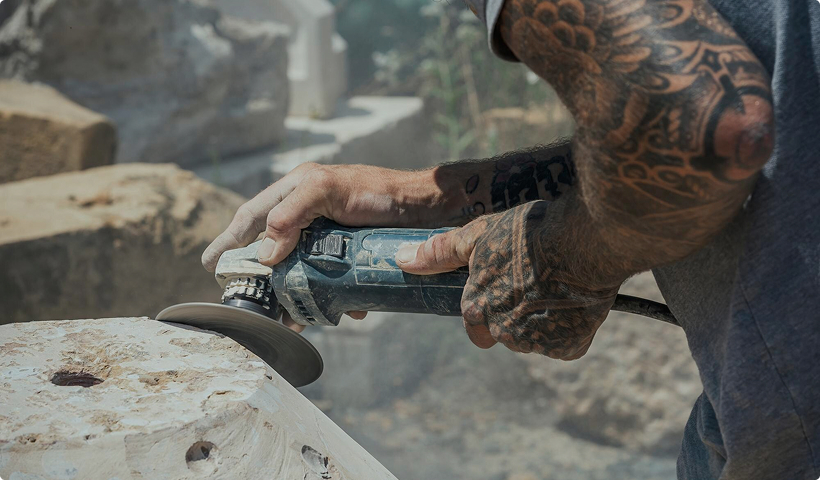
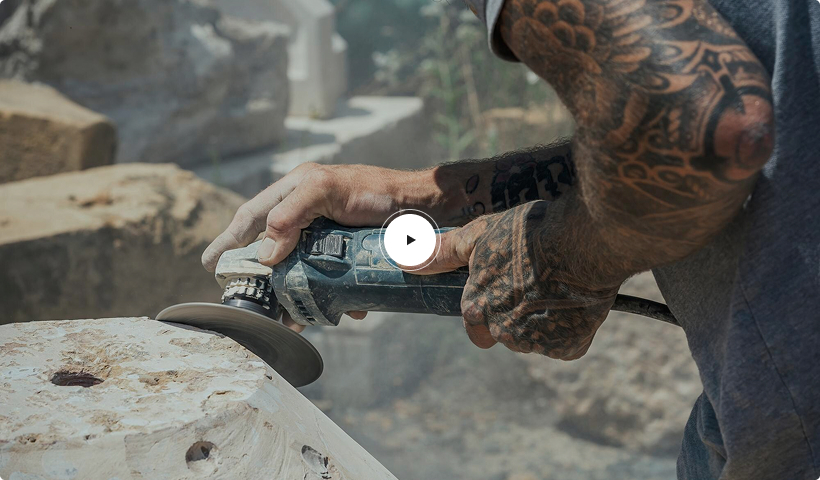
000

Changed region(s): [[0.4573, 0.4375, 0.5488, 0.5625]]

diff --git a/web/css/main.css b/web/css/main.css
@@ -2506,6 +2506,19 @@ nav li:hover > .submenu {
 	-ms-overflow-style: none;
 }
 
+.types__tabs .types-btns::-webkit-scrollbar {
+	width: 4px;
+	height: 6px;
+	border-radius: 7px;
+	background-color: #fafafa;
+}
+
+.types__tabs .types-btns::-webkit-scrollbar-thumb {
+	cursor: pointer;
+	border-radius: 7px;
+	background: #d7d7d9;
+}
+
 .types__tabs .types-btns .tabs__btn {
 	display: flex;
 	margin-right: 60px;
@@ -2515,6 +2528,10 @@ nav li:hover > .submenu {
 	opacity: 1;
 	scroll-snap-align: center;
 	align-items: center;
+}
+
+.types__tabs .types-btns .tabs__btn:last-child {
+	margin-right: 50px;
 }
 
 .types__tabs .types-btns .tabs__btn .preview {
@@ -3555,6 +3572,38 @@ nav li:hover > .submenu {
 	border-color: #fff;
 }
 
+.hero_image {
+	overflow: hidden;
+	width: 100%;
+	height: 400px;
+	pointer-events: none;
+}
+
+.hero_image video {
+	position: relative;
+	z-index: -1;
+	width: 100%;
+	height: 100%;
+	pointer-events: none;
+	-o-object-fit: cover;
+	object-fit: cover;
+}
+
+.hero_image video::-webkit-media-controls {
+	display: none !important;
+}
+
+.hero_image video:before {
+	top: 0;
+	left: 0;
+	display: block;
+	width: 100%;
+	height: 100%;
+	content: '';
+	pointer-events: none;
+	background-color: transparent;
+}
+
 .page-service .hero {
 	position: relative;
 }
@@ -3580,21 +3629,6 @@ nav li:hover > .submenu {
 
 .hero_simple .hero__inner {
 	padding-bottom: 90px;
-}
-
-.hero_image {
-	overflow: hidden;
-	width: 100%;
-	height: 400px;
-	pointer-events: none;
-}
-
-.hero_image video {
-	width: 100%;
-	height: 100%;
-	pointer-events: none;
-	-o-object-fit: cover;
-	object-fit: cover;
 }
 
 .page__item_top h1 {

diff --git a/src/sass/blocks/_tabs.scss b/src/sass/blocks/_tabs.scss
@@ -99,18 +99,17 @@
     justify-content: flex-start;
     padding: 16px 20px !important;
     scroll-snap-type: x mandatory;
-    //&::-webkit-scrollbar { display: none; }
-    //&::-webkit-scrollbar {
-    //  width: 4px;
-    //  height: 6px;
-    //  background-color: #fafafa;
-    //  border-radius: 7px;
-    //}
-    //&::-webkit-scrollbar-thumb {
-    //  background: $color-blue;
-    //  border-radius: 7px;
-    //  cursor: pointer;
-    //}
+    &::-webkit-scrollbar {
+      width: 4px;
+      height: 6px;
+      background-color: #fafafa;
+      border-radius: 7px;
+    }
+    &::-webkit-scrollbar-thumb {
+      background: $color-gray-20;
+      border-radius: 7px;
+      cursor: pointer;
+    }
     -ms-overflow-style: none;
     overflow: -moz-scrollbars-none;
     overflow-x: auto;
@@ -124,6 +123,9 @@
       padding-bottom: 0;
       white-space: nowrap;
       opacity: 1;
+      &:last-child {
+        margin-right: 50px;
+      }
       .preview {
         margin-right: 12px;
         width: 40px;

diff --git a/src/sass/blocks/_hero.scss b/src/sass/blocks/_hero.scss
@@ -30,6 +30,32 @@
   }
 }
 
+.hero_image {
+  width: 100%;
+  height: 400px;
+  overflow: hidden;
+  pointer-events: none;
+  video {
+    pointer-events: none;
+    object-fit: cover;
+    width: 100%;
+    position: relative;
+    height: 100%;
+    z-index: -1;
+    &::-webkit-media-controls { display:none!important; }
+    &:before {
+      width: 100%;
+      height: 100%;
+      content: '';
+      pointer-events: none;
+      left: 0;
+      top: 0;
+      background-color: transparent;
+      display: block;
+    }
+  }
+}
+
 .page-service {
   .hero {
     position: relative;
@@ -58,18 +84,5 @@
 .hero_simple {
   .hero__inner {
     padding-bottom: 90px;
-  }
-}
-
-.hero_image {
-  width: 100%;
-  height: 400px;
-  overflow: hidden;
-  pointer-events: none;
-  video {
-    pointer-events: none;
-    object-fit: cover;
-    width: 100%;
-    height: 100%;
   }
 }
